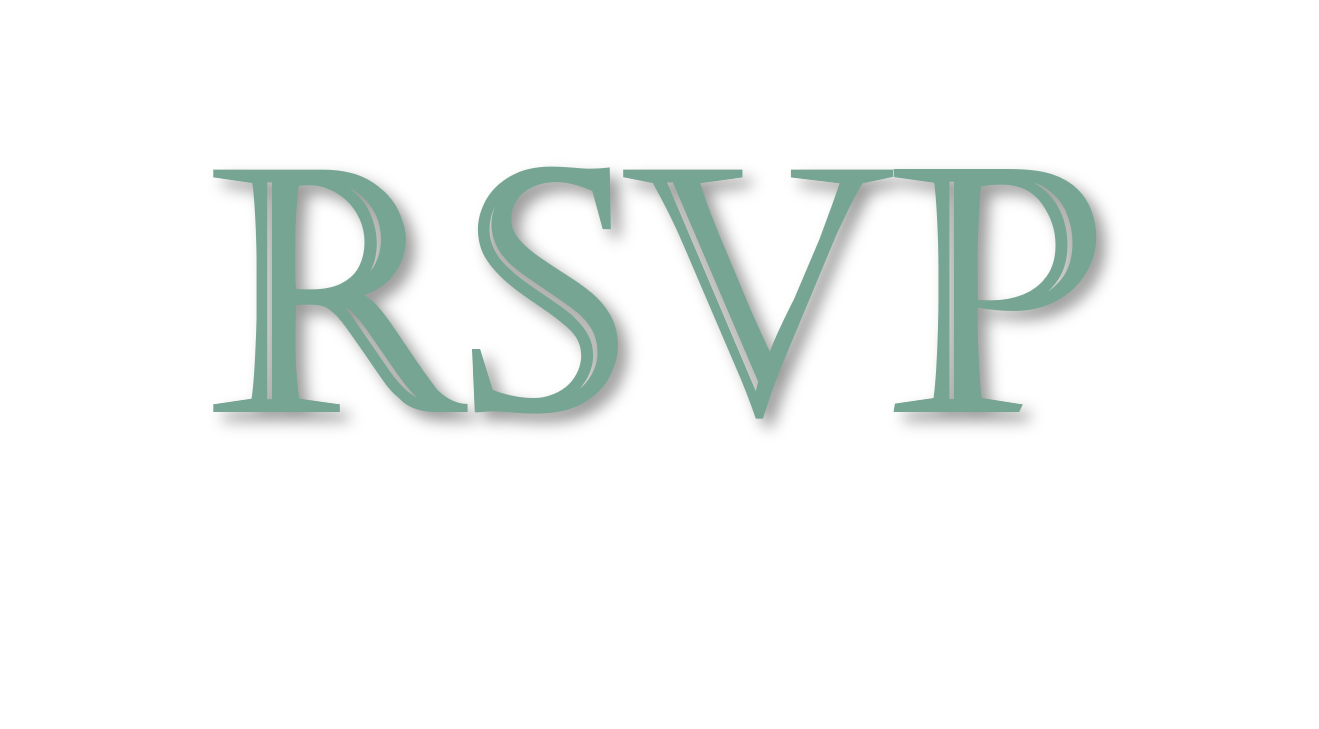
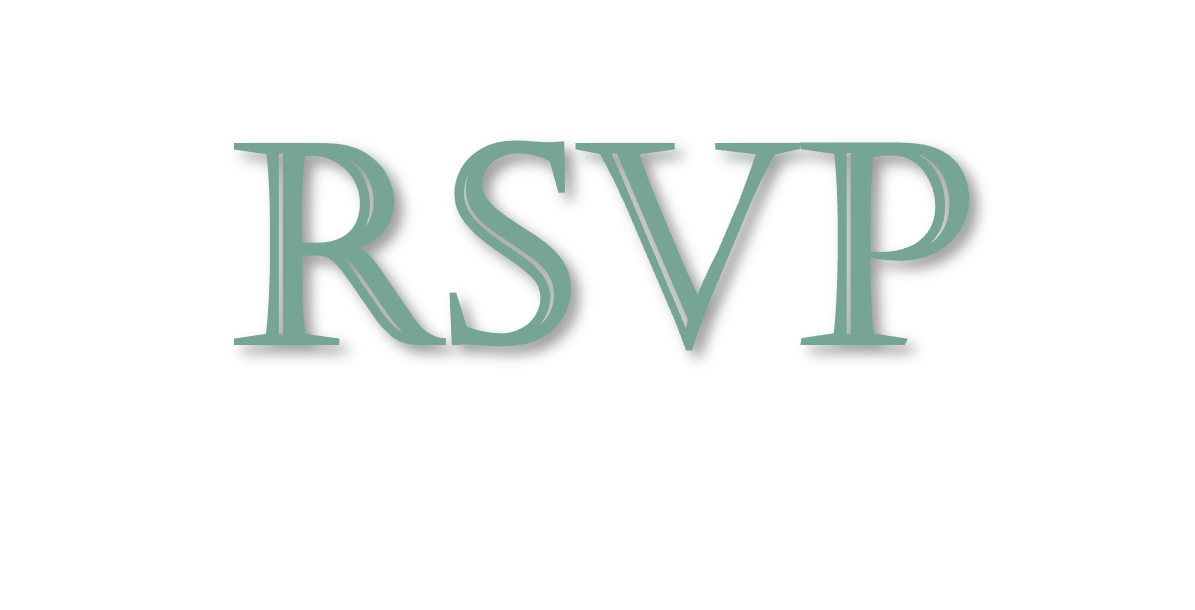
corrected header sizes for mobile, added new bkg image, added to Q&A and RSVP

Changed region(s): [[0.1548, 0.218, 0.5883, 0.5918], [0.5883, 0.218, 0.8669, 0.5918], [0.5883, 0.3738, 0.6192, 0.4361]]

diff --git a/rsvp_active.html b/rsvp_active.html
@@ -91,6 +91,7 @@
                                                 <div class="row">
                                                     <label for="firstName">First Name</label>
                                                     <div class="col-md-6"> <input type="text" style="width: 300" class="form-control" id="firstName" required> </div>
+                                                    <div class="row mt-3"></div>
                                                     <label for="lastName">Last Name</label>
                                                 <div class="col-md-6"> <input type="text" style="width: 300" class="form-control" id="lastName" required> </div>
                                                 <div class="row mt-4"></div>
@@ -103,7 +104,6 @@
                                                     <div class="col-md-6"><p>Are you bringing children under 10?</p>
                                                         <input class="form-check-input" type="radio" name="gridRadios" id="gridRadios1" value="option1">
                                                         <label class="form-check-label" for="gridRadios1">Yes  </label>
-
                                                         <input class="form-check-input" type="radio" name="gridRadios" id="gridRadios2" value="option2" checked>
                                                         <label class="form-check-label" for="gridRadios2">No</label>
                                                     </div>
@@ -113,27 +113,34 @@
                                                 <div class="row">
                                                     <div class="form-group">
                                                         <label for="textArea1">Do you have any dietary restrictions?</label>
-                                                        <textarea class="form-control" id="textArea1" rows="3"></textarea>
+                                                        <textarea class="form-control" id="textArea1" rows="2"></textarea>
+                                                    </div>
+                                                </div>
+                                                <div class="row mt-3"></div>
+                                                <div class="row">
+                                                    <div class="form-group">
+                                                        <label for="textArea2">Do you have any physical disabilities and/or limitations?</label>
+                                                        <textarea class="form-control" id="textArea2" rows="2"></textarea>
                                                     </div>
                                                 </div>
                                                 <div class="row mt-3">
                                                     <div class="form-group">
                                                         <label for="textArea2">Do you have any song requests?</label>
-                                                        <textarea class="form-control" id="textArea2" rows="3"></textarea>
+                                                        <textarea class="form-control" id="textArea3" rows="2"></textarea>
                                                     </div>
                                                 </div>
                                             </div>
                                             <div id="step-4" class="form-control">
                                                 <div class="row">
                                                     <div class="form-group">
-                                                        <label for="textArea3">Wedding planning is stressful. Tell us a joke or a fun fact!</label>
-                                                        <textarea class="form-control" id="textArea3" rows="3"></textarea>
+                                                        <label for="textArea4">Wedding planning is stressful. Tell us a joke or a fun fact!</label>
+                                                        <textarea class="form-control" id="textArea4" rows="2"></textarea>
                                                     </div>
                                                 </div>
                                                 <div class="row mt-3">
                                                     <div class="form-group">
-                                                        <label for="textArea4">Do you have any marriage advice for the bride and groom?</label>
-                                                        <textarea class="form-control" id="textArea4" rows="3"></textarea>
+                                                        <label for="textArea5">Do you have any marriage advice for the bride and groom?</label>
+                                                        <textarea class="form-control" id="textArea5" rows="2"></textarea>
                                                     </div>
                                                 </div>
                                             </div>

diff --git a/qna.html b/qna.html
@@ -58,7 +58,6 @@
                 <img class="png-min-main" src="images/titles/qna.png" style="align-self: center; width: 100%; height: auto;" id="qna"><br>
                 <div class="d-flex hid card2 align-items-center" id="sec1">
                     <div style=" z-index: 1;">
-
                         <h1 class="display-6" style="color: rgb(119, 165, 148)"><b>Where Will the Wedding be Located?</b></h1> 
                         <h1 class="display-6" style="color:white"><i>The Wedding Will Take Place at Rose Hill Manor.</i></h1>
                         <p class="lead" style="color:white">All events including the ceremony and reception will be located at Rose Hill Manor 
@@ -84,7 +83,7 @@
                          <p class="lead" style="color:white;">We will provide food at the reception cocktail hour and have 
                             dinner at reception. However feel free to grab a light bite or drink during the gap. A snack 
                             never hurt anyone!</p>
-                        <br>
+                            <br>
                         </div>
                 </div>
                 <div class="tag section4 d-flex" id="sec4">
@@ -93,11 +92,9 @@
                             <h1 class="display-6" style="color: white;"><i>Plan to Fly Into Washington-Dulles (IAD).</i><br></h1> 
                          <p class="lead" style="color:white;">Dulles is the best option and should have flights to just about 
                             anywhere at a reasonable price. We recommend booking in advance while rates are still low.</p>
-                        <br>
-                        </div>
-
+                            <br>
+                    </div>
                 </div>
-                
                 <div class="tag section5 d-flex" id="sec5">
                         <div style="z-index: 1; text-align: center;">
                         <h1 class="display-6" style="color: rgb(119, 165, 148)"><b>Where Should I Stay if I Come From Out of Town?</b></h1>
@@ -105,8 +102,18 @@
                          <p class="lead" style="color:white;">Leesburg has plenty of hotels and Airbnbs in the local area. We recommend 
                             booking the Hotel Burg, Hampton Inn & Suites Leesburg, Holiday Inn Express & Suites Leesburg, Homewood Suites 
                             by Hilton Leesburg, or any Airbnb options in the scenic Leesburg area.</p>
+                            <br>
                     </div>
-                </div><br>                
+                </div>  
+                <div class="tag section5 d-flex" id="sec6">
+                        <div style="z-index: 1; text-align: center;">
+                        <h1 class="display-6" style="color: rgb(119, 165, 148)"><b>What If I Have Physical Limitations or Dietary Restrictions?</b></h1>
+                        <h1 class="display-6" style="color: white;"><i>Let Us Know About Any Limitations When You RSVP.</i><br></h1> 
+                         <p class="lead" style="color:white;">When the RSVP form is open, you will have the opportunity to inform us of any dietary
+                            restrictions or physical disabilities and/or limitations. The venue team will be more than willing to accomodate you so you 
+                            can enjoy the event worry-free.</p>
+                    </div><br>
+                </div>           
             </div>
     </body>
     <script src="countdown.js"></script>

diff --git a/timeline_of_events.html b/timeline_of_events.html
@@ -57,7 +57,7 @@
     <div>
             <br><br>
             <div class="d-flex p-5" style="flex-direction: column">
-            <img class="png-min-main" src="images/titles/timeline.png" style="align-self: center; width: 100%; height: auto;" id="timeline">
+            <img class="png-min" src="images/titles/timeline.png" style="align-self: center; width: 100%; height: auto;" id="timeline">
             <div class="container">
                 <div class="row">
                     <div class="col-md-12">
@@ -82,7 +82,7 @@
                                 </li>
                                 <li class="event" data-date="7:00 PM - 8:10 PM">
                                     <h3>Reception and Dinner</h3>
-                                    <p><i>Dances, speeches, and buffet-style dinner</i></p>
+                                    <p><i>Dances, speeches, and buffet-style dinner.</i></p>
                                 </li>
                                 <li class="event" data-date="8:10 PM">
                                     <h3>Dance Floor Opens</h3>
@@ -90,11 +90,11 @@
                                 </li>
                                 <li class="event" data-date="8:50 PM - 9:05 PM">
                                     <h3>Cake Cutting and Boquet Toss</h3>
-                                    <p><i>Something sweet for the evening</i></p>
+                                    <p><i>Something sweet for the evening.</i></p>
                                 </li>
                                 <li class="event" data-date="10:45 PM - 11:00 PM">
                                     <h3>Last Song and Grand Exit</h3>
-                                    <p><i>A night well spent</i></p>
+                                    <p><i>A night well spent.</i></p>
                                 </li>
                             </ul>
                         </div>

diff --git a/rsvp.html b/rsvp.html
@@ -57,8 +57,9 @@
             
             <div class="d-flex p-5" style="flex-direction: column; text-align: center">
                 <img class="png-min-lrg" src="images/titles/rsvp.png" style="align-self: center; width: 100%; height: auto;" id="rsvp" >
-                        <h1 class="display-6" style="color: white">RSVP Window Opens in <span id="demo2"></span>!</h1> 
-                        <p class="lead" style="color: white"><i>Be sure to return on July 10, 2026 to confirm your attendance details. <br>In the meantime, feel free to check out the rest of the site!</i></p>
+                        <h1 class="display-6" style="color: white"><i>RSVP Window Opens in <span id="demo2"></span>!</i></h1> 
+                        <p class="lead" style="color: white">Be sure to return on July 10, 2026 to confirm your attendance details. 
+                        <br>In the meantime, feel free to check out the rest of the site!</p>
                         <br>
                         <button type="button" class="btn btn-success" style="align-self: center; width: 150px; border-radius: 10px" id="button_rsvp">RSVP Closed Until 7/10/2026</button>
 <!--

diff --git a/title_format.css b/title_format.css
@@ -28,6 +28,16 @@ body.interior {
   background-attachment: fixed;
 }
 
+body.outdoor {
+  margin: 0;
+  background-image: linear-gradient(rgba(0,0,0,0.4), rgba(0,0,0,0.7)), url('images/bkg/manor_outside.jpeg');
+  background-size: cover;
+  background-position: center;
+  background-repeat: no-repeat;
+  height: 100vh;
+  background-attachment: fixed;
+}
+
 /* Prevent PNG images from shrinking too small */
 img.png-min {
   min-width: 200px;   /* adjust as needed */
@@ -53,14 +63,7 @@ img.png-min-lrg {
 /* Optional: stricter control on very small screens */
 @media (max-width: 576px) {
   img.png-min {
-    min-width: 120px;
-    overflow-x: auto
-  }
-}
-
-@media (max-width: 576px) {
-  img.png-min-main {
-    min-width: 120px;
+    min-width: 50%;
     overflow-x: auto
   }
 }

diff --git a/our_story_photos.html b/our_story_photos.html
@@ -12,7 +12,7 @@
         <link rel="stylesheet" type="text/css" href="carousel.css">
     </head>
 
-    <body class="ring">
+    <body class="outdoor">
         <header class="masthead mb-auto" data-bs-theme="dark">
             <nav class="navbar fixed-top navbar-expand-md navbar-dark bg-dark">
                 <div class="container-fluid">
